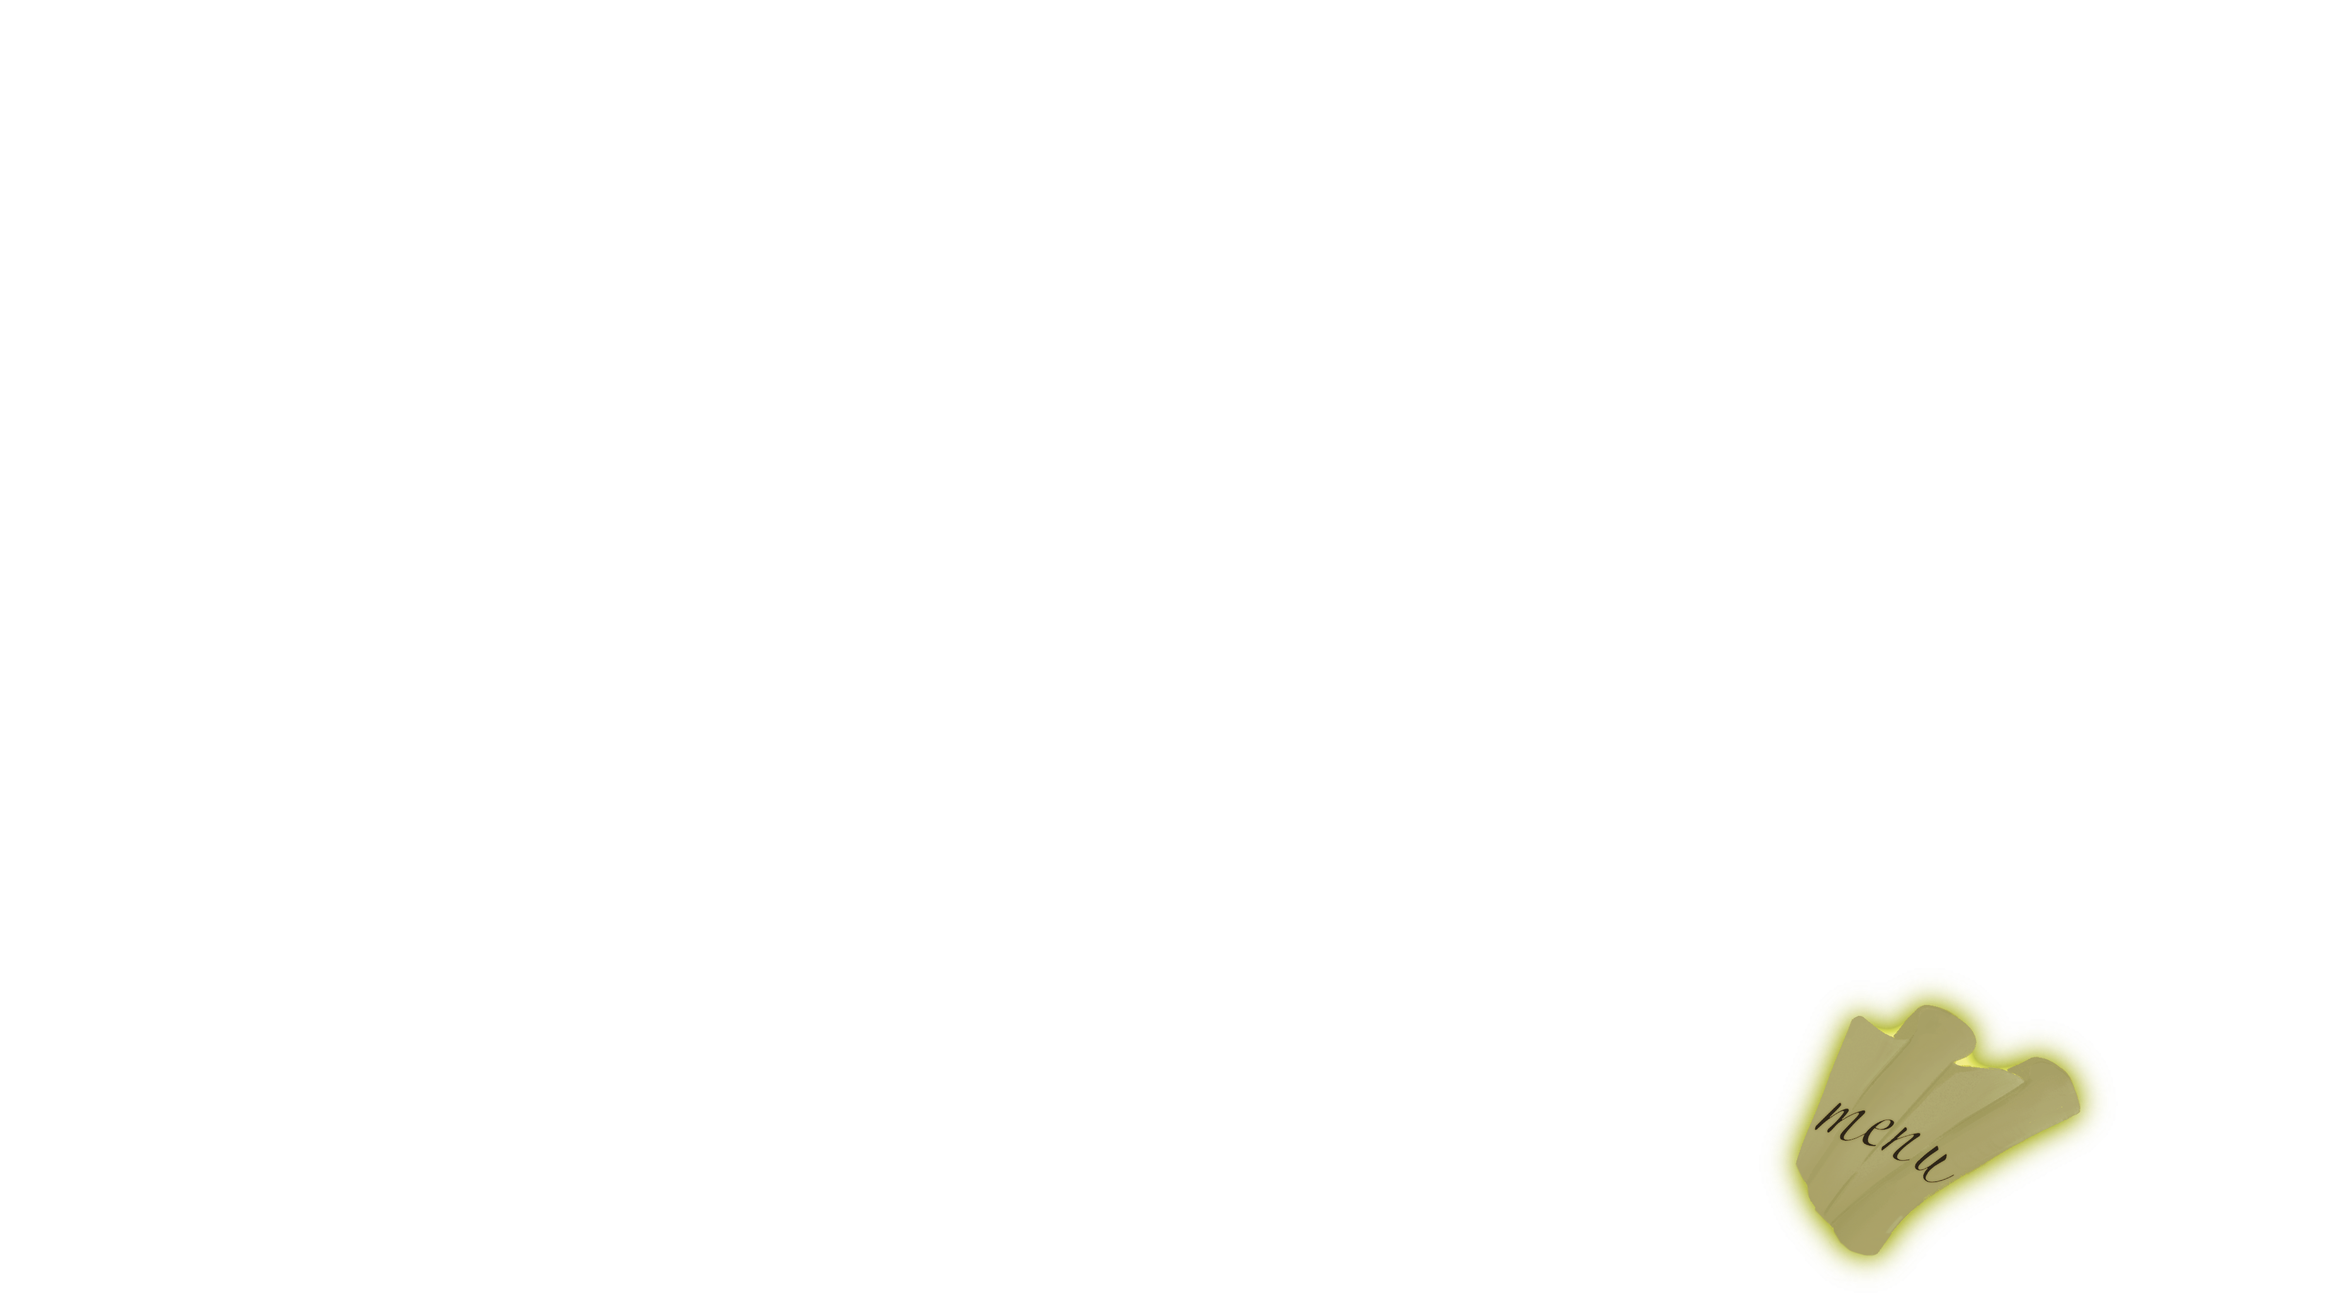
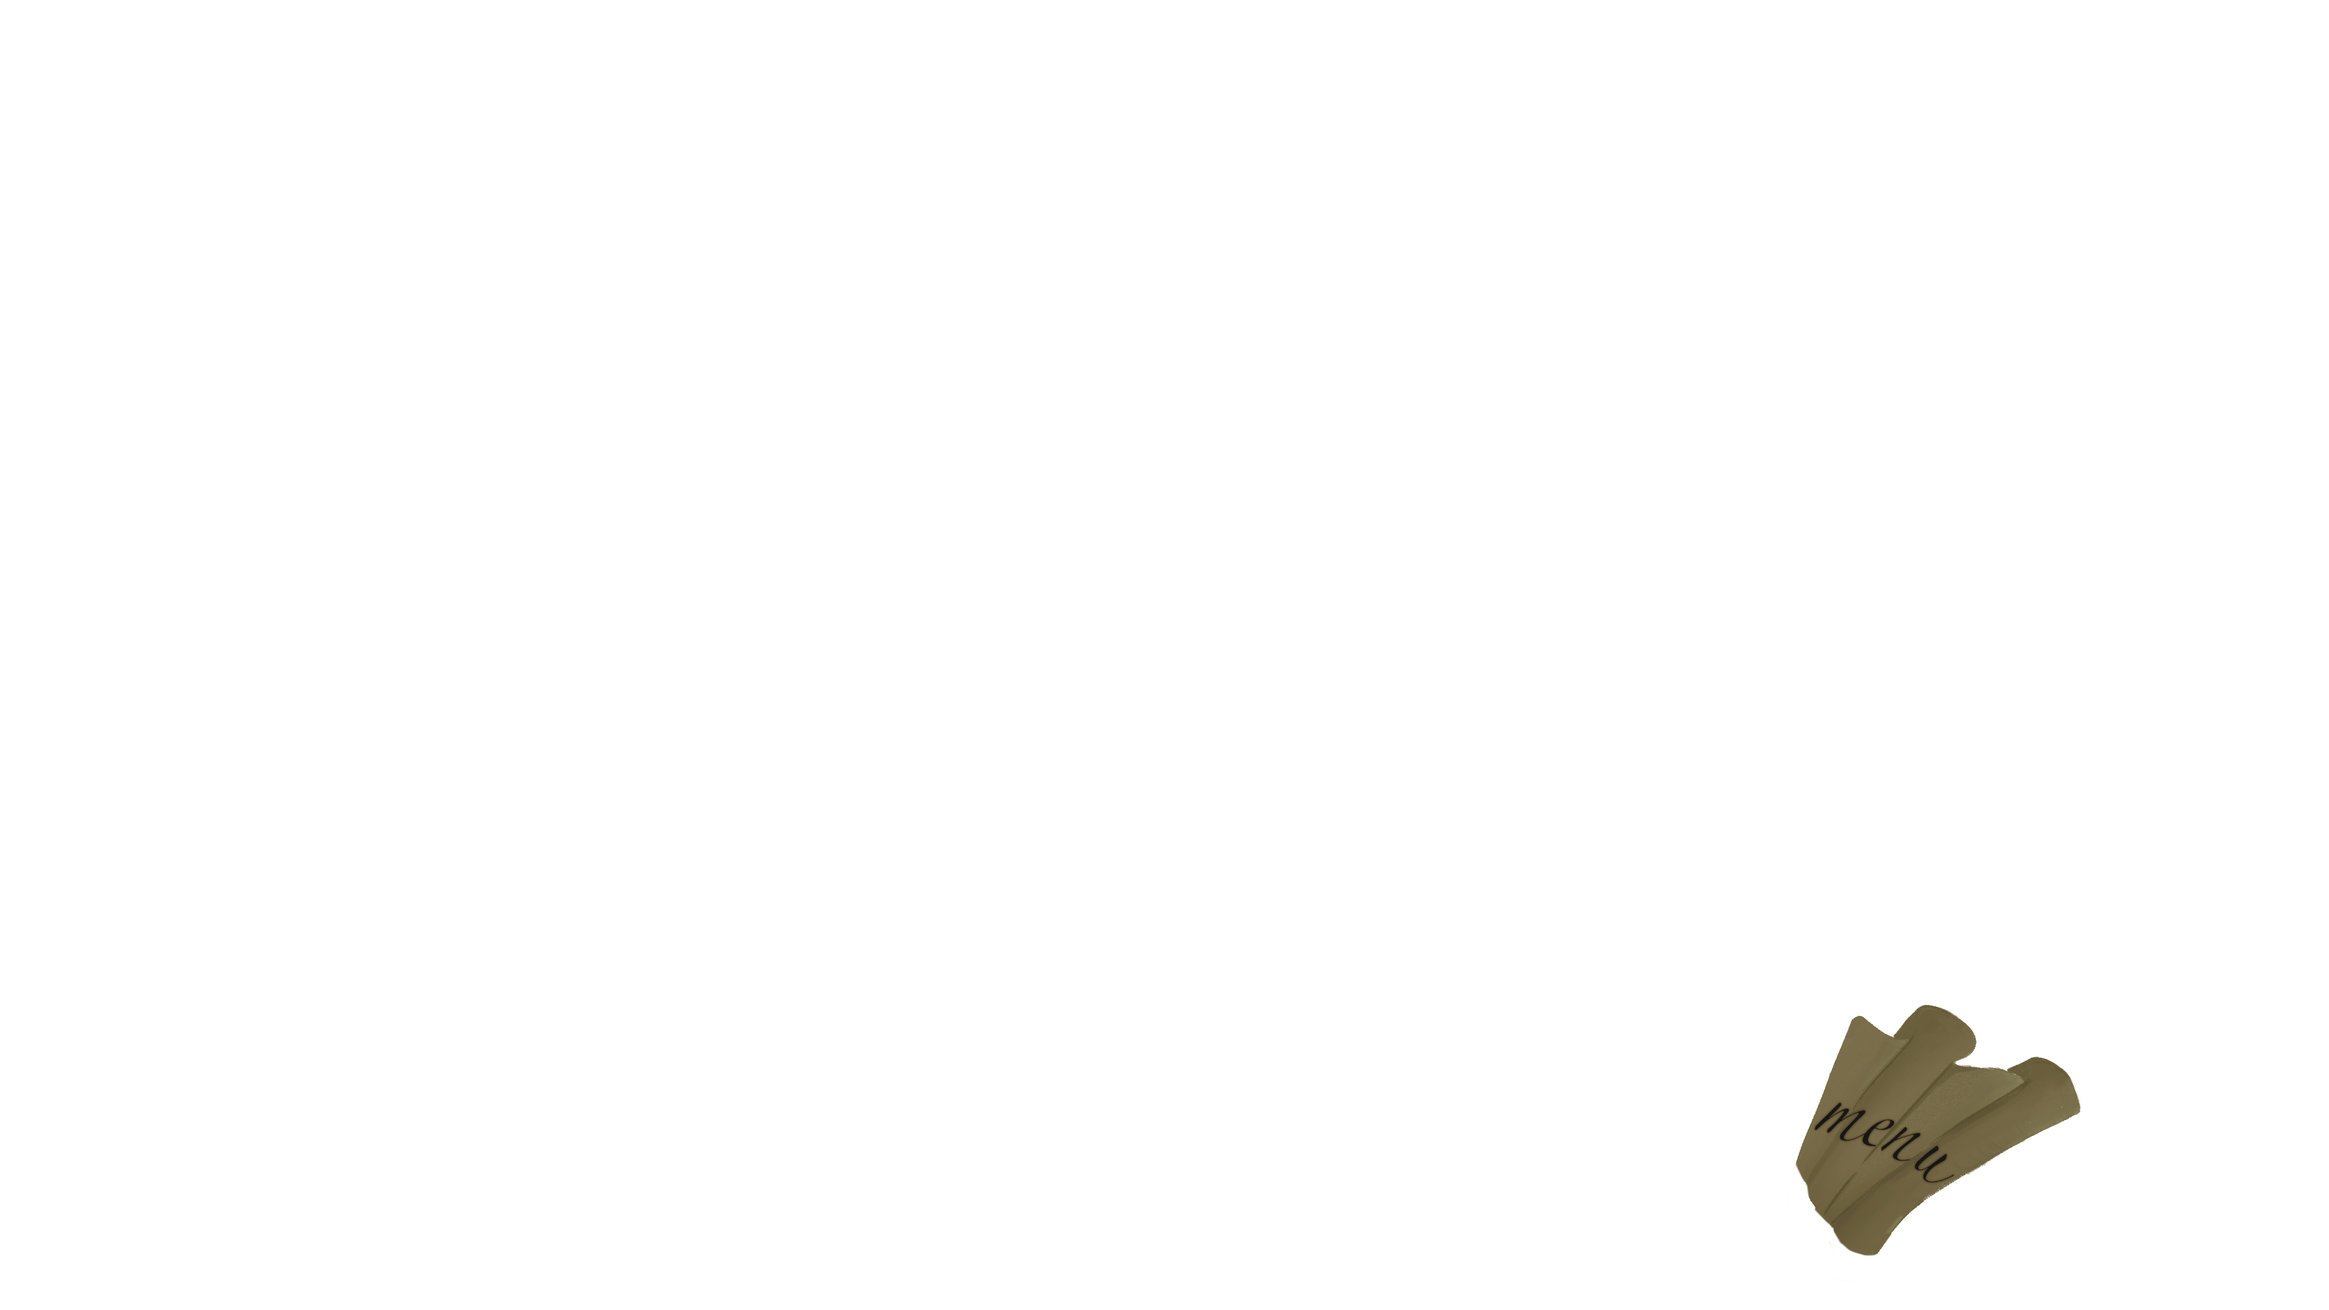
feat: Room2 initialy loaded, HUD finished

Changed region(s): [[0.75, 0.7444, 0.9062, 0.9926]]

diff --git a/ZTGKEngine/src/managers/SceneManager.h b/ZTGKEngine/src/managers/SceneManager.h
@@ -41,6 +41,8 @@ class SceneManager
 {
 private:
 	GraphNode* UI;
+	GraphNode* UIBright = new GraphNode();
+	GraphNode* UIDark = new GraphNode();
 	GLFWwindow* window;
 	FadeOut* fade;
 	SoundSource* speaker;
@@ -91,6 +93,9 @@ public:
 		isBright = brightReference;
 		world = new GraphNode();
 		UI = new GraphNode();
+		UI->AddChild(UIBright);
+		UI->AddChild(UIDark);
+		UIDark->SetActive(false);
 		timeCounter = 0.0f;
 		phase = true;
 		poof = false;
@@ -98,6 +103,7 @@ public:
 		Loading("res/models/everest.jpg");
 		PostProcessSetup();
 		Scene1Setup(&otherShaders);
+		Scene2Setup(&otherShaders);
 		ExecuteStartScripts();
 	}
 
@@ -388,7 +394,7 @@ public:
 #pragma endregion
 
 #pragma region World Configuration
-		GraphNode* SceneBackground = CreateNode("res/models/pokoj_export.fbx", defaultShader);
+		GraphNode* Scene1MainObject = CreateNode("res/models/pokoj_export.fbx", defaultShader);
 		GraphNode* SceneOutsideBright = CreateUiElement(0,0,200,150, "res/models/bright_forest.png", additionalShaders[0]);
 		GraphNode* SceneOutsideDark = CreateUiElement(0, 0, 200, 150, "res/models/dark_forest.png", additionalShaders[0]);
 
@@ -399,8 +405,8 @@ public:
 		Scene1Bright->AddChild(SceneOutsideBright);
 		Scene1Dark->AddChild(SceneOutsideDark);
 		world->AddChild(bulb);
-		Scene1->AddChild(SceneBackground);
-		SceneBackground->Scale(0.1f);
+		Scene1->AddChild(Scene1MainObject);
+		Scene1MainObject->Scale(0.1f);
 
 		Scene1->AddChild(ChessMainObject);
 
@@ -618,37 +624,38 @@ public:
 		//--------------------------------UI-AND-INVENTORY--------------------------------
 		GraphNode* door = CreateNode("res/models/drzwi.fbx", defaultShader);
 		door->Scale(0.15f);
-		door->Rotate(70, glm::vec3(0.0, 1.0, 0.0));
-		door->Translate(glm::vec3(40.0, 0.0, 120.0));
+		//door->Rotate(-150, glm::vec3(0.0, 1.0, 0.0));
+		door->Translate(glm::vec3(55.0, 0.0, 250.0));
 		Scene1->AddChild(door);
 		
 
-		RoomSwapManager* manager1 = new RoomSwapManager(door, Scene1Bright, Scene1Dark, window,
-			Scene1, Scene2, isBright, singleClick, &engageSwap, &poof);
+		RoomSwapManager* manager1 = new RoomSwapManager(door, Scene1Bright, Scene1Dark, UIBright, UIDark, 
+			window, Scene1, Scene2, isBright, singleClick, &engageSwap, &poof);
 		door->AddScript(manager1);
 
-		GraphNode* bottomPanel = new GraphNode();
-		UI->AddChild(bottomPanel);
+#pragma region Bright HUD
+		GraphNode* bottomPanelBright = new GraphNode();
+		UIBright->AddChild(bottomPanelBright);
 
 		GraphNode* brightBackground = CreateUiElement(0, 0, *SCR_WIDTH, *SCR_HEIGHT,
 			"res/models/hud/normal_world/hud_bg_s1.png", textureShader);
-		bottomPanel->AddChild(brightBackground);
+		bottomPanelBright->AddChild(brightBackground);
 
 		GraphNode* brightLeaves1 = CreateUiElement(0, 0, *SCR_WIDTH, *SCR_HEIGHT,
 			"res/models/hud/normal_world/hud_leaves1_s1.png", textureShader);
-		bottomPanel->AddChild(brightLeaves1);
+		bottomPanelBright->AddChild(brightLeaves1);
 
 		GraphNode* brightJournal = CreateUiElement(0, 0, *SCR_WIDTH, *SCR_HEIGHT,
 			"res/models/hud/normal_world/hud_journal_s1.png", textureShader);
-		bottomPanel->AddChild(brightJournal);
+		bottomPanelBright->AddChild(brightJournal);
 
 		GraphNode* brightPlant = CreateUiElement(0, 0, *SCR_WIDTH, *SCR_HEIGHT,
 			"res/models/hud/normal_world/hud_plant_s1.png", textureShader);
-		bottomPanel->AddChild(brightPlant);
+		bottomPanelBright->AddChild(brightPlant);
 
 		GraphNode* brightPlantHover = CreateUiElement(0, 0, *SCR_WIDTH, *SCR_HEIGHT,
 			"res/models/hud/normal_world/hud_plant__hover_s1.png", textureShader);
-		bottomPanel->AddChild(brightPlantHover);
+		bottomPanelBright->AddChild(brightPlantHover);
 		brightPlantHover->SetActive(false);
 		brightPlant->AddScript(new ActivateOnHoverScript(brightPlant, brightPlantHover));
 		brightPlantHover->AddScript(new DeactivateOnMouseLeave(brightPlantHover));
@@ -656,11 +663,11 @@ public:
 
 		GraphNode* brightHint = CreateUiElement(0, 0, *SCR_WIDTH, *SCR_HEIGHT,
 			"res/models/hud/normal_world/hud_hint_s1.png", textureShader);
-		bottomPanel->AddChild(brightHint);
+		bottomPanelBright->AddChild(brightHint);
 
 		GraphNode* brightHintHover = CreateUiElement(0, 0, *SCR_WIDTH, *SCR_HEIGHT,
 			"res/models/hud/normal_world/hud_hint_hover_s1.png", textureShader);
-		bottomPanel->AddChild(brightHintHover);
+		bottomPanelBright->AddChild(brightHintHover);
 		brightHintHover->SetActive(false);
 		brightHint->AddScript(new ActivateOnHoverScript(brightHint, brightHintHover, ApTime::instance().isEasyMode));
 		brightHintHover->AddScript(new DeactivateOnMouseLeave(brightHintHover));
@@ -668,18 +675,75 @@ public:
 
 		GraphNode* brightMenu = CreateUiElement(0, 0, *SCR_WIDTH, *SCR_HEIGHT,
 			"res/models/hud/normal_world/hud_menu_s1.png", textureShader);
-		bottomPanel->AddChild(brightMenu);
+		bottomPanelBright->AddChild(brightMenu);
 
 		GraphNode* brightMenuHover = CreateUiElement(0, 0, *SCR_WIDTH, *SCR_HEIGHT,
 			"res/models/hud/normal_world/hud_menu_hover_s1.png", textureShader);
-		bottomPanel->AddChild(brightMenuHover);
+		bottomPanelBright->AddChild(brightMenuHover);
 		brightMenuHover->SetActive(false);
 		brightMenu->AddScript(new ActivateOnHoverScript(brightMenu, brightMenuHover));
 		brightMenuHover->AddScript(new DeactivateOnMouseLeave(brightMenuHover));
 
 		GraphNode* brightLeaves2 = CreateUiElement(0, 0, *SCR_WIDTH, *SCR_HEIGHT,
 			"res/models/hud/normal_world/hud_leaves2_s1.png", textureShader);
-		bottomPanel->AddChild(brightLeaves2);
+		bottomPanelBright->AddChild(brightLeaves2);
+#pragma endregion
+
+#pragma region Dark HUD
+		GraphNode* bottomPanelDark = new GraphNode();
+		UIDark->AddChild(bottomPanelDark);
+
+		GraphNode* darkBackground = CreateUiElement(0, 0, *SCR_WIDTH, *SCR_HEIGHT,
+			"res/models/hud/fked_up_world/hud_bg_s2.png", textureShader);
+		bottomPanelDark->AddChild(darkBackground);
+
+		GraphNode* darktLeaves1 = CreateUiElement(0, 0, *SCR_WIDTH, *SCR_HEIGHT,
+			"res/models/hud/fked_up_world/hud_leaves1_s2.png", textureShader);
+		bottomPanelDark->AddChild(darktLeaves1);
+
+		GraphNode* darkJournal = CreateUiElement(0, 0, *SCR_WIDTH, *SCR_HEIGHT,
+			"res/models/hud/fked_up_world/hud_journal_s2.png", textureShader);
+		bottomPanelDark->AddChild(darkJournal);
+
+		GraphNode* darkPlant = CreateUiElement(0, 0, *SCR_WIDTH, *SCR_HEIGHT,
+			"res/models/hud/fked_up_world/hud_plant_s2.png", textureShader);
+		bottomPanelDark->AddChild(darkPlant);
+
+		GraphNode* darkPlantHover = CreateUiElement(0, 0, *SCR_WIDTH, *SCR_HEIGHT,
+			"res/models/hud/fked_up_world/hud_plant_hover_s2.png", textureShader);
+		bottomPanelDark->AddChild(darkPlantHover);
+		darkPlantHover->SetActive(false);
+		darkPlant->AddScript(new ActivateOnHoverScript(darkPlant, darkPlantHover));
+		darkPlantHover->AddScript(new DeactivateOnMouseLeave(darkPlantHover));
+		darkPlantHover->AddScript(new SwapButton(darkPlantHover, manager1));
+
+		GraphNode* darkHint = CreateUiElement(0, 0, *SCR_WIDTH, *SCR_HEIGHT,
+			"res/models/hud/fked_up_world/hud_hint_s2.png", textureShader);
+		bottomPanelDark->AddChild(darkHint);
+
+		GraphNode* darkHintHover = CreateUiElement(0, 0, *SCR_WIDTH, *SCR_HEIGHT,
+			"res/models/hud/fked_up_world/hud_hint_hover_s2.png", textureShader);
+		bottomPanelDark->AddChild(darkHintHover);
+		darkHintHover->SetActive(false);
+		darkHint->AddScript(new ActivateOnHoverScript(darkHint, darkHintHover, ApTime::instance().isEasyMode));
+		darkHintHover->AddScript(new DeactivateOnMouseLeave(darkHintHover));
+		darkHintHover->AddScript(new HintButton(darkHintHover));
+
+		GraphNode* darkMenu = CreateUiElement(0, 0, *SCR_WIDTH, *SCR_HEIGHT,
+			"res/models/hud/fked_up_world/hud_menu_s2.png", textureShader);
+		bottomPanelDark->AddChild(darkMenu);
+
+		GraphNode* darkMenuHover = CreateUiElement(0, 0, *SCR_WIDTH, *SCR_HEIGHT,
+			"res/models/hud/fked_up_world/hud_menu_hover_s2.png", textureShader);
+		bottomPanelDark->AddChild(darkMenuHover);
+		darkMenuHover->SetActive(false);
+		darkMenu->AddScript(new ActivateOnHoverScript(darkMenu, darkMenuHover));
+		darkMenuHover->AddScript(new DeactivateOnMouseLeave(darkMenuHover));
+
+		GraphNode* darkLeaves2 = CreateUiElement(0, 0, *SCR_WIDTH, *SCR_HEIGHT,
+			"res/models/hud/fked_up_world/hud_leaves2_s2.png", textureShader);
+		bottomPanelDark->AddChild(darkLeaves2);
+#pragma endregion
 
 		//---------------------------------------------------------------------------
 		GraphNode* scissors = CreateUiElement(0, 0, *SCR_WIDTH, *SCR_HEIGHT,
@@ -831,6 +895,21 @@ public:
 		leftScales->AddScript(new SingleScaleScript(leftScales, scalesPuzzleController, true, scalesTab));
 		rightScales->AddScript(new SingleScaleScript(rightScales, scalesPuzzleController, false, scalesTab));
 #pragma endregion
+	}
+
+	void Scene2Setup(Shader* additionalShaders[] = nullptr)
+	{
+		world->AddChild(Scene2);
+		Scene2->Scale(0.005f);
+		Scene2->SetActive(false);
+		//BRIGHT_WORLD:
+		GraphNode* Scene2Bright = new GraphNode();
+		//DARK_WORLD:
+		GraphNode* Scene2Dark = new GraphNode();
+
+		GraphNode* Scene2MainObject = CreateNode("res/models/lab.fbx", defaultShader);
+		Scene2MainObject->Scale(0.2f);
+		Scene2->AddChild(Scene2MainObject);
 	}
 
 	void PostProcessSetup()

diff --git a/ZTGKEngine/src/main.cpp b/ZTGKEngine/src/main.cpp
@@ -198,32 +198,33 @@ int main(void)
         //Counting new deltaTime
         ApTime::instance().Update();
 
-        glm::mat4 projection, view;
+
 
 #pragma region Camera Setup
 
-        if (!ApTime::instance().isChessPosition)
-        {
-            projection = defaultCameraPosition.projection;
-            view = defaultCameraPosition.view;
-            camera.Position = defaultCameraPosition.position;
+        //    glm::mat4 projection, view;
+        //if (!ApTime::instance().isChessPosition)
+        //{
+        //    projection = defaultCameraPosition.projection;
+        //    view = defaultCameraPosition.view;
+        //    camera.Position = defaultCameraPosition.position;
 
-        }
-        else
-        {
-            projection = chessCameraPosition.projection;
-            view = chessCameraPosition.view;
-            camera.Position = chessCameraPosition.position;
-        }
+        //}
+        //else
+        //{
+        //    projection = chessCameraPosition.projection;
+        //    view = chessCameraPosition.view;
+        //    camera.Position = chessCameraPosition.position;
+        //}
 
 #pragma endregion
 
 #pragma region Camera Setup Debug
 
-        //glm::mat4 projection = glm::perspective(glm::radians(camera.Zoom), (float)SCR_WIDTH / (float)SCR_HEIGHT, 0.1f, 100.0f);
-        //glm::mat4 view = camera.GetViewMatrix();
+        glm::mat4 projection = glm::perspective(glm::radians(camera.Zoom), (float)SCR_WIDTH / (float)SCR_HEIGHT, 0.1f, 100.0f);
+        glm::mat4 view = camera.GetViewMatrix();
 
-   /*     std::cout << "Projection:\n";
+        /*std::cout << "Projection:\n";
         for (int i = 0; i < 4; i++)
         {
             for (int j = 0; j < 4; j++)
@@ -406,14 +407,14 @@ void processInput(GLFWwindow* window)
     if (glfwGetKey(window, GLFW_KEY_ESCAPE) == GLFW_PRESS)
         glfwSetWindowShouldClose(window, true);
 
-    //if (glfwGetKey(window, GLFW_KEY_W) == GLFW_PRESS)
-    //    camera.ProcessKeyboard(FORWARD, ApTime::instance().deltaTime);
-    //if (glfwGetKey(window, GLFW_KEY_S) == GLFW_PRESS)
-    //    camera.ProcessKeyboard(BACKWARD, ApTime::instance().deltaTime);
-    //if (glfwGetKey(window, GLFW_KEY_A) == GLFW_PRESS)
-    //    camera.ProcessKeyboard(LEFT, ApTime::instance().deltaTime);
-    //if (glfwGetKey(window, GLFW_KEY_D) == GLFW_PRESS)
-    //    camera.ProcessKeyboard(RIGHT, ApTime::instance().deltaTime);
+    if (glfwGetKey(window, GLFW_KEY_W) == GLFW_PRESS)
+        camera.ProcessKeyboard(FORWARD, ApTime::instance().deltaTime);
+    if (glfwGetKey(window, GLFW_KEY_S) == GLFW_PRESS)
+        camera.ProcessKeyboard(BACKWARD, ApTime::instance().deltaTime);
+    if (glfwGetKey(window, GLFW_KEY_A) == GLFW_PRESS)
+        camera.ProcessKeyboard(LEFT, ApTime::instance().deltaTime);
+    if (glfwGetKey(window, GLFW_KEY_D) == GLFW_PRESS)
+        camera.ProcessKeyboard(RIGHT, ApTime::instance().deltaTime);
 
     if (glfwGetMouseButton(window, GLFW_MOUSE_BUTTON_3) == GLFW_PRESS && oldMouseButtonState == GLFW_RELEASE) {
         if (isMouseActive) {
@@ -459,42 +460,11 @@ void mouse_callback(GLFWwindow* window, double xposIn, double yposIn)
     lastX = xpos;
     lastY = ypos;
 
-    //camera.ProcessMouseMovement(xoffset, yoffset);
+    camera.ProcessMouseMovement(xoffset, yoffset);
 }
 
 // glfw: whenever the mouse scroll wheel scrolls, this callback is called
 void scroll_callback(GLFWwindow* window, double xoffset, double yoffset)
 {
-    //camera.ProcessMouseScroll(static_cast<float>(yoffset));
-}
-
-glm::vec3 rayCast(GLFWwindow* window, glm::mat4 projection, glm::mat4 view)
-{
-    //GETTING MOUSE POSITION
-    double mouseXd;
-    double mouseYd;
-    glfwGetCursorPos(window, &mouseXd, &mouseYd);
-    float mouseX = (float)mouseXd;
-    float mouseY = (float)mouseYd;
-
-    //NORMALIZING THEM
-    float normalizedX = (2.0f * mouseX) / SCR_WIDTH - 1.0f;
-    float normalizedY = 1.0f - (2.0f * mouseY) / SCR_HEIGHT;
-    glm::vec2 normalizedCoords = glm::vec2(normalizedX, normalizedY);
-
-    //CONVERTING TO CLIP SPACE(we just add 1 at z, so that our ray faces into the screen)
-    glm::vec4 clipCoords = glm::vec4(normalizedCoords.x, normalizedCoords.y, 1.0f, 1.0f);
-
-    //CONVERTING TO EYE SPACE (by using inverse projection matrix)
-    glm::mat4 invProjection = glm::inverse(projection);
-    glm::vec4 eyeCoords = invProjection * clipCoords;
-
-    //CONVERTING TO WORLD SPACE
-    glm::mat4 invView = glm::inverse(view);
-    glm::vec4 worldCoords = invView * eyeCoords;
-
-    //CONVERTING 4D VECTOR TO 3D(since we no longer need it to be in 4D)
-    glm::vec3 castedRay = glm::vec3(worldCoords.x, worldCoords.y, worldCoords.z);
-    castedRay = glm::normalize(castedRay);
-    return castedRay;
+    camera.ProcessMouseScroll(static_cast<float>(yoffset));
 }

diff --git a/ZTGKEngine/src/managers/RoomSwapManager.h b/ZTGKEngine/src/managers/RoomSwapManager.h
@@ -19,6 +19,8 @@ private:
 	bool* swapPostman;
 	GraphNode* currentScene; 
 	GraphNode* otherScene;
+	GraphNode* brightUI;
+	GraphNode* darkUI;
 
 	bool keyPressed = false;
 	bool controlPressed = false;
@@ -31,8 +33,9 @@ private:
 public:
 	//Constructor, here assign all the fields from the private section
 	RoomSwapManager(GraphNode* nodePointer, GraphNode* brightNode, GraphNode* darkNode, 
-		GLFWwindow* givenWindow, GraphNode* _currentScene, GraphNode* _otherScene,
-		bool* givenVersion, bool* _singleClick, bool* swapPostman = nullptr, bool* poof = nullptr): RealtimeScript(nodePointer)
+		GraphNode* brightUInode, GraphNode* darkUInode,GLFWwindow* givenWindow, GraphNode* _currentScene,
+		GraphNode* _otherScene, bool* givenVersion, bool* _singleClick, bool* swapPostman = nullptr,
+		bool* poof = nullptr): RealtimeScript(nodePointer)
 	{
 		brightWorld = brightNode;
 		darkWorld = darkNode;
@@ -43,6 +46,8 @@ public:
 		currentScene = _currentScene;
 		otherScene = _otherScene;
 		singleClick = _singleClick;
+		brightUI = brightUInode;
+		darkUI = darkUInode;
 	}
 
 	~RoomSwapManager() = default;
@@ -57,6 +62,8 @@ public:
 		if (*poof) {
 			darkWorld->SetActive(!darkWorld->GetActive());
 			brightWorld->SetActive(!brightWorld->GetActive());
+			brightUI->SetActive(!brightUI->GetActive());
+			darkUI->SetActive(!darkUI->GetActive());
 
 			if (brightWorld->GetActive())
 			{
@@ -110,6 +117,7 @@ public:
 		darkWorld->SetActive(false);
 		currentScene->SetActive(false);
 		otherScene->SetActive(true);
+		std::cout << otherScene->GetActive() << std::endl;
 	}
 
 	void SetForceSwap()
